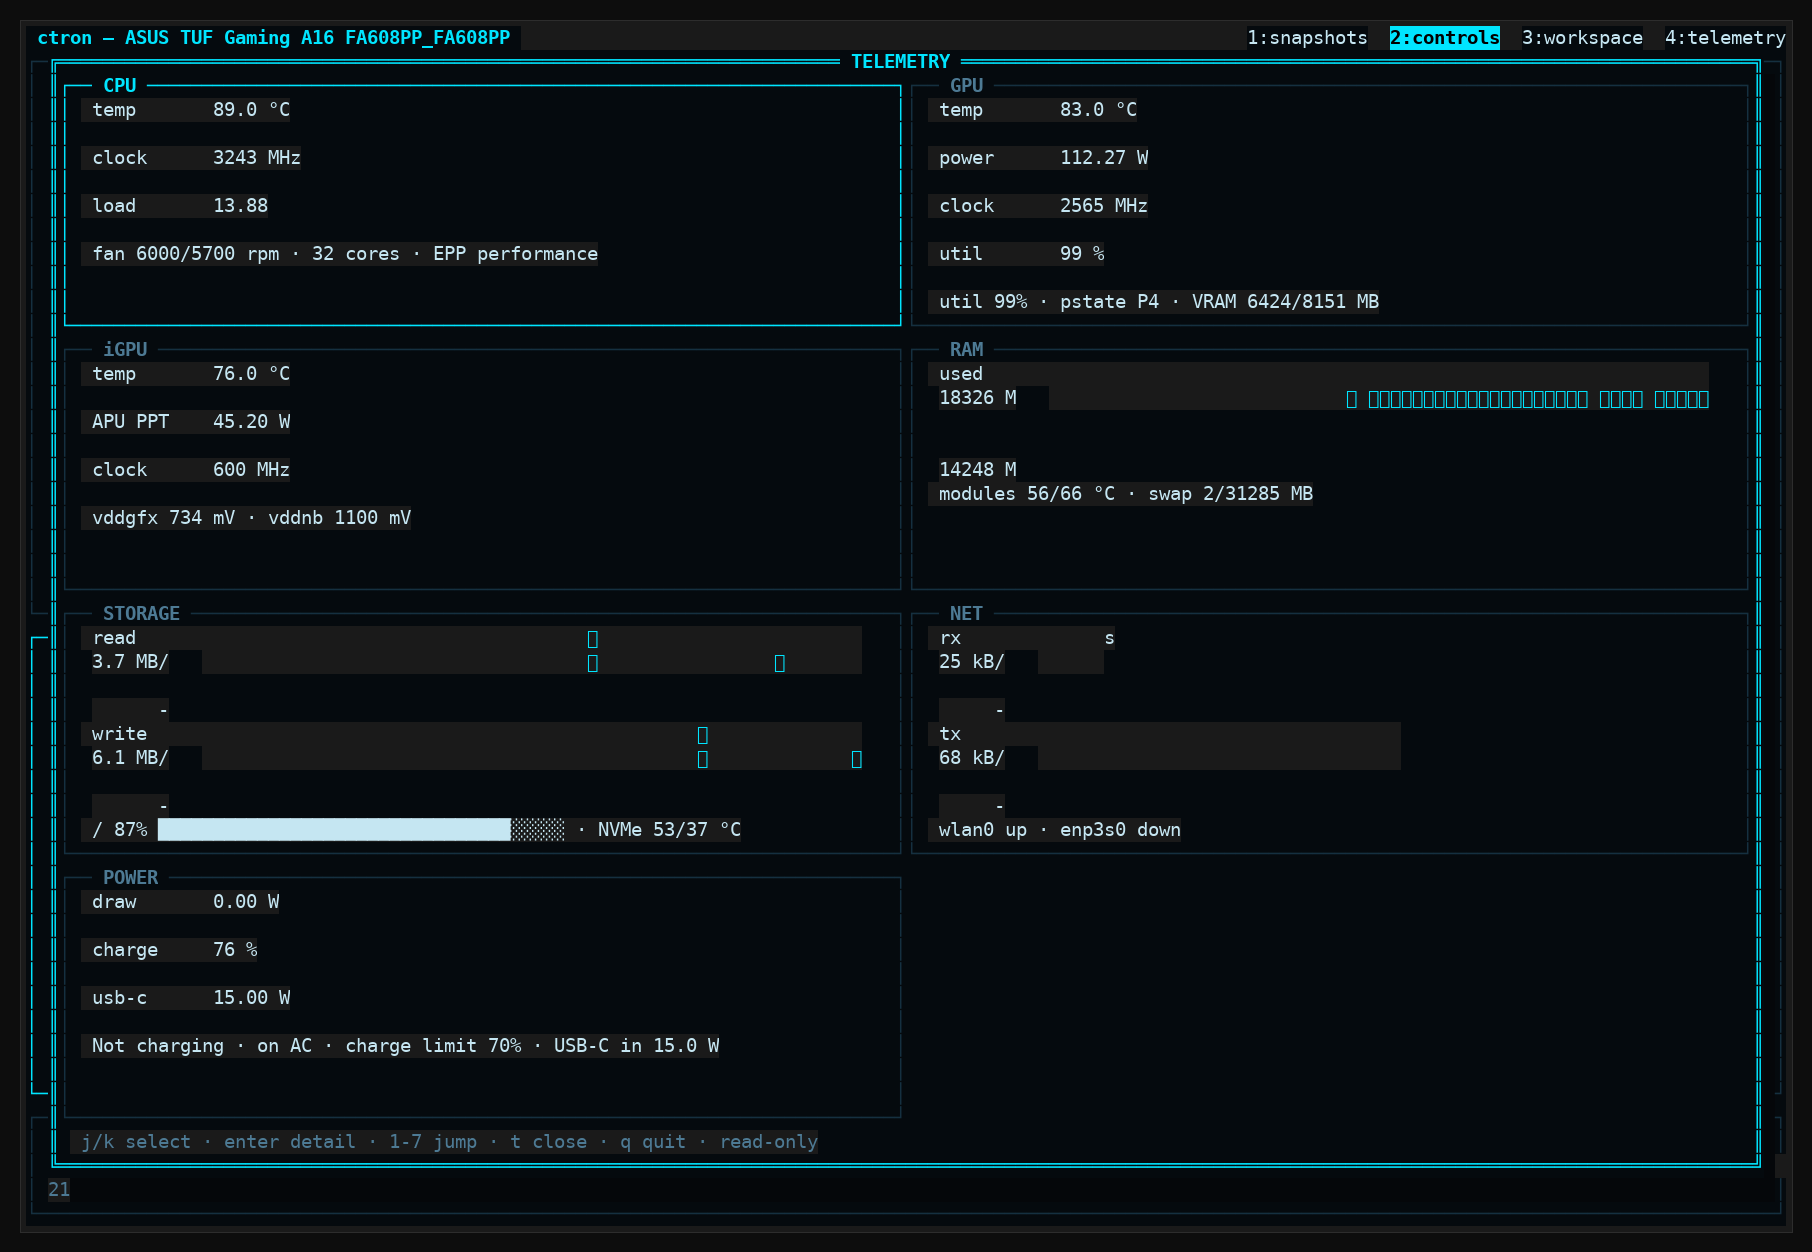
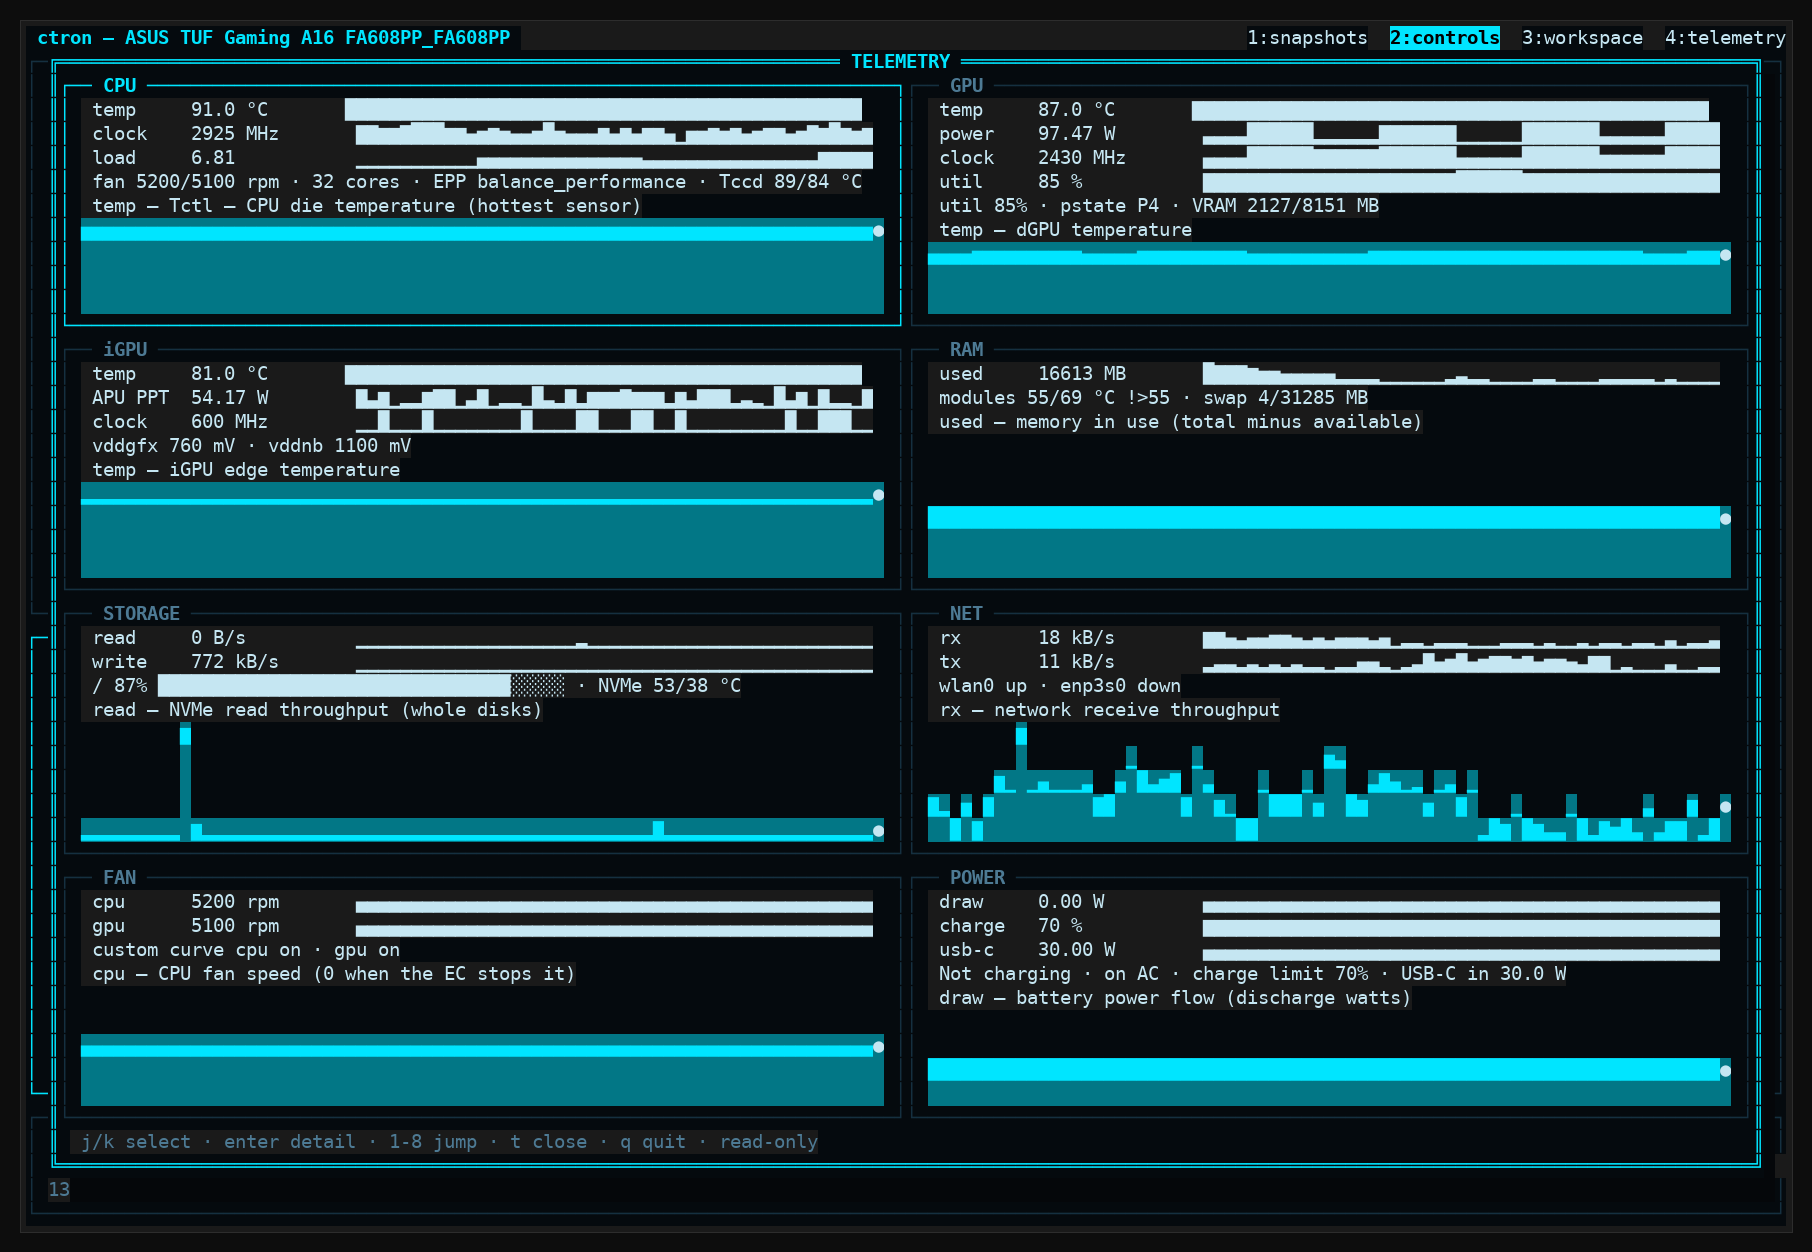
ui: FAN telemetry section (8th) - the TS_FAN_CPU/GPU rings have been sampled every tick since v0.4 but no section ever charted them; new FAN section (NET|FAN|POWER row, grid now a full 4x2): cpu/gpu RPM charts with a new U_RPM unit, grid info shows custom-curve state + staged marker, detail adds the

diff --git a/src/ui/panel_telem_full.c b/src/ui/panel_telem_full.c
@@ -15,7 +15,7 @@
  * screen never writes hardware; sampling happens in telem_poll(),
  * which ui.c calls after every fast refresh.
  *
- * Two modes: the section grid (j/k cursor, enter/1-7 opens) and one
+ * Two modes: the section grid (j/k cursor, enter/1-8 opens) and one
  * section's detail page — full-width multi-row charts over the same
  * rings plus info lines from the live hw snapshot. */
 
@@ -77,7 +77,7 @@ static void bar(char *out, size_t n, int used, int total, int cells)
 
 /* ---- detail-page charts ------------------------------------------------ */
 
-typedef enum { U_TEMP, U_MHZ, U_W, U_PCT, U_LOAD, U_MBPS, U_MB } unit_t;
+typedef enum { U_TEMP, U_MHZ, U_W, U_PCT, U_LOAD, U_MBPS, U_MB, U_RPM } unit_t;
 
 static void fmt_val(char *out, size_t n, unit_t u, double v)
 {
@@ -92,6 +92,7 @@ static void fmt_val(char *out, size_t n, unit_t u, double v)
         case U_LOAD: snprintf(out, n, "%.2f", v); break;
         case U_MBPS: fmt_bs(out, n, v); break;
         case U_MB:   snprintf(out, n, "%.0f MB", v); break;
+        case U_RPM:  snprintf(out, n, "%.0f rpm", v); break;
         }
     }
 }
@@ -310,6 +311,10 @@ static const chartdef_t CD_DISK[] = {
 static const chartdef_t CD_NET[] = {
     { "rx", U_MBPS, TS_NET_RX, "network receive throughput" },
     { "tx", U_MBPS, TS_NET_TX, "network transmit throughput" },
+};
+static const chartdef_t CD_FAN[] = {
+    { "cpu", U_RPM, TS_FAN_CPU, "CPU fan speed (0 when the EC stops it)" },
+    { "gpu", U_RPM, TS_FAN_GPU, "GPU fan speed (0 when the EC stops it)" },
 };
 static const chartdef_t CD_POWER[] = {
     { "draw", U_W, TS_BAT_MW, "battery power flow (discharge watts)" },
@@ -595,6 +600,19 @@ static void sec_net(struct ncplane *n, const rect_t *r)
     grid_rows(n, r, CD_NET, CD_COUNT(CD_NET), info, 1);
 }
 
+static void sec_fan(struct ncplane *n, const rect_t *r)
+{
+    hw_state_t *hw = g_ui.hw;
+    char line[128];
+    int len = snprintf(line, sizeof line, " custom curve cpu %s · gpu %s",
+                       hw->fan_cpu_on ? "on" : "off",
+                       hw->fan_gpu_on ? "on" : "off");
+    if (len > 0 && (size_t)len < sizeof line && hw->fan_staged)
+        snprintf(line + len, sizeof line - len, " · staged");
+    const char *info[1] = { line };
+    grid_rows(n, r, CD_FAN, CD_COUNT(CD_FAN), info, 1);
+}
+
 static void sec_power(struct ncplane *n, const rect_t *r)
 {
     hw_state_t *hw = g_ui.hw;
@@ -837,6 +855,22 @@ static void detail_net(struct ncplane *n, const rect_t *r)
                  info, ni);
 }
 
+static void detail_fan(struct ncplane *n, const rect_t *r)
+{
+    hw_state_t *hw = g_ui.hw;
+    char l0[128], l1[96];
+    int len = snprintf(l0, sizeof l0, " custom curve: cpu %s · gpu %s",
+                       hw->fan_cpu_on ? "on" : "off",
+                       hw->fan_gpu_on ? "on" : "off");
+    if (len > 0 && (size_t)len < sizeof l0 && hw->fan_staged)
+        snprintf(l0 + len, sizeof l0 - len, " · edits staged (Write pending)");
+    snprintf(l1, sizeof l1, " curves are edited in the FAN workspace view "
+                            "(this screen is read-only)");
+    const char *info[2] = { l0, l1 };
+    stack_charts(n, r, CD_FAN, CD_COUNT(CD_FAN), true, 2, CHART_ROWS_MAX,
+                 info, 2);
+}
+
 static void detail_power(struct ncplane *n, const rect_t *r)
 {
     hw_state_t *hw = g_ui.hw;
@@ -875,6 +909,7 @@ static const telem_section_t SECTIONS[] = {
     { "RAM", sec_ram, detail_ram },
     { "STORAGE", sec_disk, detail_disk },
     { "NET", sec_net, detail_net },
+    { "FAN", sec_fan, detail_fan },
     { "POWER", sec_power, detail_power },
 };
 
@@ -898,7 +933,7 @@ void panel_telem_full_draw(struct ncplane *n, const rect_t *r)
         if (ir.w > 4 && ir.h > 2)
             SECTIONS[det].detail(n, &ir);
         ui_putln(n, r->x + 2, r->y + r->h - 2, r->w - 4,
-                 " esc grid · h/l section · 1-7 jump · t close · q quit · read-only",
+                 " esc grid · h/l section · 1-8 jump · t close · q quit · read-only",
                  pal->muted, false);
         return;
     }
@@ -928,7 +963,7 @@ void panel_telem_full_draw(struct ncplane *n, const rect_t *r)
     }
 
     ui_putln(n, r->x + 2, r->y + r->h - 2, r->w - 4,
-             " j/k select · enter detail · 1-7 jump · t close · q quit · read-only",
+             " j/k select · enter detail · 1-8 jump · t close · q quit · read-only",
              pal->muted, false);
 }
 

diff --git a/scripts/tui_smoke.py b/scripts/tui_smoke.py
@@ -570,7 +570,7 @@ def flow_fan_grid():
 def flow_telem_full():
     """Fullscreen telemetry ('t'): contextual open from a non-typing view,
     sections render, j/k cursor + enter opens a section detail page,
-    h/l flips sections, 1-7 jumps directly, esc backs out to the grid,
+    h/l flips sections, 1-8 jumps directly, esc backs out to the grid,
     stray keys are swallowed, t closes, reopens, q quits cleanly."""
     tmpcfg = tempfile.mkdtemp(prefix="ctron-tui-")
     oldcfg = os.environ.get("CTRON_CONFIG")
@@ -620,7 +620,7 @@ def flow_telem_full():
             fail("telem_full", "'t' did not open the fullscreen TELEMETRY")
             return
         ok("telem_full", "fullscreen opened on lowercase 't' (non-typing view)")
-        for sec in (b"CPU", b"GPU", b"RAM", b"STORAGE", b"NET", b"POWER"):
+        for sec in (b"CPU", b"GPU", b"RAM", b"STORAGE", b"NET", b"FAN", b"POWER"):
             if not s.wait_for(sec, since=m, timeout=6.0):
                 fail("telem_full", f"section {sec!r} missing")
                 return
@@ -658,7 +658,7 @@ def flow_telem_full():
         if not s.wait_for(b"total", since=m6, timeout=6.0):
             fail("telem_full", "digit jump did not open the NET detail")
             return
-        ok("telem_full", "1-7 digits jump straight to a detail page")
+        ok("telem_full", "1-8 digits jump straight to a detail page")
         m7 = s.mark()
         s.key(b"\x1b")             # esc: detail -> grid (not closed)
         if not s.wait_for(b"j/k", since=m7, timeout=6.0):

diff --git a/src/ui/panel_workspace.c b/src/ui/panel_workspace.c
@@ -957,7 +957,7 @@ static void draw_help(struct ncplane *n, const rect_t *r)
         "  5..8         workspace view: 5 fan · 6 power · 7 light · 8 help",
         "  t / T        fullscreen telemetry (T works everywhere)",
         "               hjkl/arrows walk the grid (2D) · enter detail",
-        "               1-7 jump · esc back · h/l flips detail sections",
+        "               1-8 jump · esc back · h/l flips detail sections",
         "  esc / s      settings overlay · ? this help",
         "  applies run in the background — keys pause, q waits for them",
         "",

diff --git a/README.md b/README.md
@@ -93,13 +93,13 @@ Rows are clickable (mouse is a known gap under Hyprland — see the
 Per-view keys (fan point editing, presets modal, core-limit overlay)
 are listed in the HELP view and the footer while you use them.
 
-`t` opens a **fullscreen read-only telemetry screen**: seven live
-sections (CPU / GPU / iGPU / RAM / storage / network / power), each
-with rolling braille charts over a ~60 s window — CPU & GPU
+`t` opens a **fullscreen read-only telemetry screen**: eight live
+sections (CPU / GPU / iGPU / RAM / storage / network / fans / power),
+each with rolling wash-fill charts over a ~60 s window — CPU & GPU
 temperatures, clocks, load, fan RPMs, dGPU power/utilisation/VRAM,
 iGPU temp/clock/power, RAM use + module temps, NVMe temps + disk I/O +
 fill bar, per-interface network rx/tx, battery draw/charge.
-`j`/`k` walk the section grid and `Enter` (or `1`–`7`) opens a
+`j`/`k` walk the section grid and `Enter` (or `1`–`8`) opens a
 section's **detail page**: full-width multi-row charts with min/max/last
 stats plus info lines from a fresh live snapshot (PPT/EPP, per-core
 ceilings, GPU pstate & throttle reasons, VRAM/clock lock, battery
